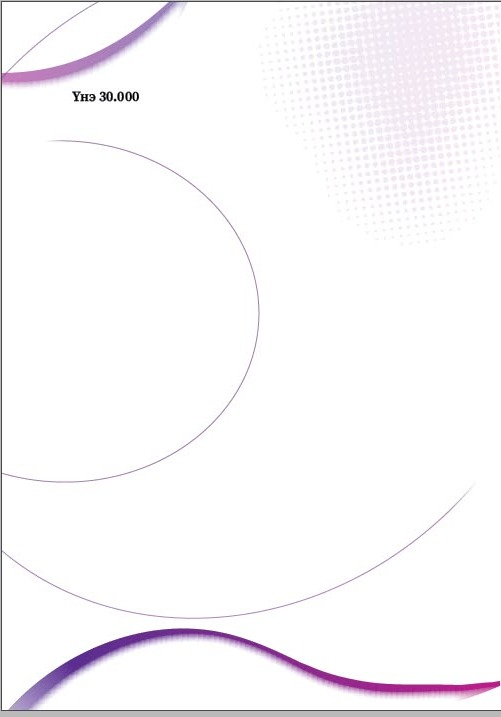
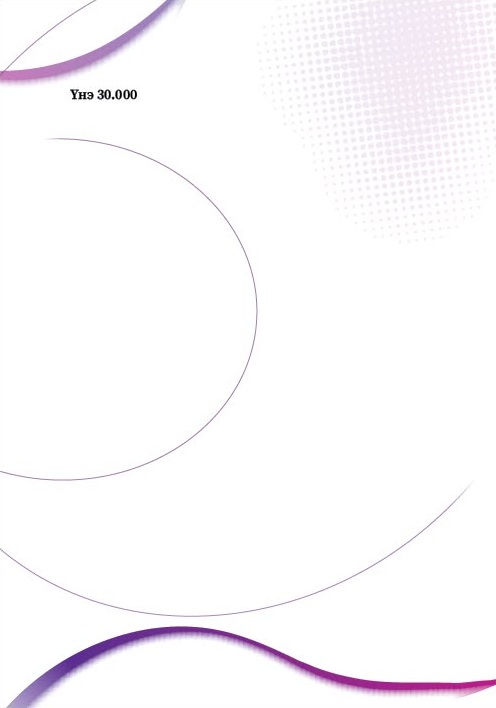
Номын 3D: зураас арилгаж, мэргэжлийн бүтээгдэхүүний гэрэлд шилжүүлэв
- Хавтасны тайралтаас дизайны канвасын саарал хүрээ, бараан шугамыг хасав
  (хажуугийн бараан ба доорх цагаан зураасны шалтгаан). Нуруу 56px тул
  пропорц 1 : 1.422 : 0.112.
- Ном нэг цул биет — хавтас/хуудасны завсрын зураас үүсэхгүй.
- Градиент тусгалтай нарийн strip softbox, хар хаалт (black flag) —
  хавтсыг бүрхэхгүй, нарийн гялбаа үүсгэнэ.
- Шалны хавтгайгүй завсаргүй фон; бараан горимд ~18% уусдаг акрил ойлт.

diff --git a/docs/v2/mockup/books-3d.html b/docs/v2/mockup/books-3d.html
@@ -11,36 +11,24 @@
   .wrap { max-width: 1080px; margin: 0 auto; padding: 20px 16px 120px; }
   .note { font-size: 13px; color: var(--ink-dim); border: 1px dashed var(--line); border-radius: 12px; padding: 10px 14px; background: #fff; }
   .spacer { height: 36vh; display: grid; place-items: end center; color: var(--ink-dim); font-size: 13px; padding-bottom: 12px; }
-  .studio { position: relative; border-radius: 22px; overflow: hidden; aspect-ratio: 4 / 5; touch-action: pan-y; user-select: none; -webkit-user-select: none; cursor: grab; transition: background .5s; }
+  .studio { position: relative; border-radius: 22px; overflow: hidden; aspect-ratio: 4 / 5; touch-action: pan-y; user-select: none; -webkit-user-select: none; cursor: grab; background: #151318; }
   @media (min-width: 860px) { .studio { aspect-ratio: 16 / 10; } }
   .studio:active { cursor: grabbing; }
-  /* Бараан студи: номын ард зөөлөн гэрлийн толбо, ирмэгээрээ харанхуйлна */
-  .studio.dark {
-    background:
-      radial-gradient(48% 38% at 50% 44%, rgba(120,92,140,.42) 0%, rgba(120,92,140,0) 70%),
-      radial-gradient(70% 24% at 50% 82%, rgba(255,255,255,.07) 0%, rgba(255,255,255,0) 70%),
-      radial-gradient(120% 90% at 50% 40%, #2A2630 0%, #151318 58%, #0B0A0D 100%);
-  }
-  .studio.light {
-    background:
-      radial-gradient(55% 42% at 50% 42%, #FFFFFF 0%, rgba(255,255,255,0) 72%),
-      radial-gradient(120% 90% at 50% 40%, #F1EEE9 0%, #E2DDD5 64%, #CFC9BF 100%);
-  }
   canvas { position: absolute; inset: 0; width: 100%; height: 100%; display: block; }
   .fallback { position: absolute; inset: 0; display: grid; place-items: center; }
-  .fallback img { width: 52%; max-width: 280px; box-shadow: 0 30px 50px -20px rgba(0,0,0,.5); }
+  .fallback img { width: 52%; max-width: 280px; }
   .ctrl { position: absolute; top: 12px; right: 12px; display: flex; gap: 4px; padding: 4px; border-radius: 999px; background: rgba(255,255,255,.14); backdrop-filter: blur(10px); -webkit-backdrop-filter: blur(10px); z-index: 2; }
-  .studio.light .ctrl { background: rgba(0,0,0,.06); }
+  .studio.light .ctrl { background: rgba(0,0,0,.07); }
   .ctrl button { font: inherit; font-size: 12px; border: 0; border-radius: 999px; padding: 6px 12px; min-height: 32px; background: transparent; color: rgba(255,255,255,.75); cursor: pointer; }
   .studio.light .ctrl button { color: #55504A; }
   .ctrl button[aria-pressed="true"] { background: rgba(255,255,255,.92); color: #1B1B18; }
+  .hint { position: absolute; left: 0; right: 0; bottom: 14px; text-align: center; font-size: 12px; color: rgba(255,255,255,.45); pointer-events: none; }
+  .studio.light .hint { color: #7A756C; }
   .lights { display: flex; justify-content: center; gap: 4px; margin: 12px auto 0; width: max-content; padding: 4px; border-radius: 999px; background: #EFECE6; }
   .lights button { font: inherit; font-size: 12px; border: 0; border-radius: 999px; padding: 6px 10px; min-height: 32px; background: transparent; color: #8A847B; cursor: pointer; display: flex; align-items: center; gap: 6px; }
   .lights button i { width: 7px; height: 7px; border-radius: 50%; background: currentColor; opacity: .5; }
   .lights button[aria-pressed="true"] { color: #1B1B18; background: #fff; box-shadow: 0 1px 2px rgba(0,0,0,.08); }
-  .lights button[aria-pressed="true"] i { background: #FFD27A; opacity: 1; box-shadow: 0 0 8px #FFD27A; }
-  .hint { position: absolute; left: 0; right: 0; bottom: 14px; text-align: center; font-size: 12px; color: rgba(255,255,255,.5); pointer-events: none; }
-  .studio.light .hint { color: #7A756C; }
+  .lights button[aria-pressed="true"] i { background: #F5B942; opacity: 1; box-shadow: 0 0 6px #F5B942; }
   .kicker { margin-top: 22px; font-size: 12px; letter-spacing: .1em; text-transform: uppercase; color: var(--book); font-weight: 700; }
   h1 { font-size: clamp(26px, 6.4vw, 34px); margin: 6px 0 0; letter-spacing: -.015em; line-height: 1.15; }
   .meta { color: var(--ink-dim); font-size: 14px; margin-top: 6px; }
@@ -65,7 +53,6 @@
     </div>
     <div class="hint">Гүйлгэхэд эргэнэ · хажуу тийш чирнэ</div>
   </div>
-
   <div class="lights" role="group" aria-label="Гэрэл асаах, унтраах">
     <button data-light="fill" aria-pressed="true"><i></i>Дүүргэгч</button>
     <button data-light="hair" aria-pressed="true"><i></i>Арын</button>
@@ -82,7 +69,7 @@
   import { RectAreaLightUniformsLib } from "three/addons/lights/RectAreaLightUniformsLib.js";
 
   const studio = document.getElementById("studio");
-  const renderer = new THREE.WebGLRenderer({ antialias: true, alpha: true, powerPreference: "high-performance" });
+  const renderer = new THREE.WebGLRenderer({ antialias: true, powerPreference: "high-performance" });
   document.getElementById("fallback").remove();
   renderer.setPixelRatio(Math.min(devicePixelRatio, 2));
   renderer.outputColorSpace = THREE.SRGBColorSpace;
@@ -95,97 +82,132 @@
   const scene = new THREE.Scene();
   const camera = new THREE.PerspectiveCamera(26, 1, 0.1, 60);
   const pmrem = new THREE.PMREMGenerator(renderer);
-  const target = new THREE.Vector3(0, 0.70, 0);
+  const AIM = new THREE.Vector3(0, 0.70, 0);
+  const canvasTex = (w, h, draw, srgb = true) => { const c = document.createElement("canvas"); c.width = w; c.height = h; draw(c.getContext("2d"), w, h); const t = new THREE.CanvasTexture(c); if (srgb) t.colorSpace = THREE.SRGBColorSpace; return t; };
 
-  // ---------- Студийн тусгалын орчин: харанхуй өрөөнд гэрэлтэх softbox-ууд ----------
-  // Гялгар хавтас эдгээр туузыг тусгаж, бүтээгдэхүүний зургийн урт гялбаа үүснэ.
+  // ===================== Студийн фон (WebGL дотор) =====================
+  const BACKDROP = {
+    dark:  { glow: "#3A3242", mid: "#17151B", edge: "#0A090C", floor: 0x141217 },
+    light: { glow: "#FFFFFF", mid: "#EAE6E0", edge: "#CDC7BD", floor: 0xE6E2DB },
+  };
+  const backdropTex = mode => canvasTex(1024, 1024, (x, w, h) => {
+    const b = BACKDROP[mode], g = x.createRadialGradient(w * .5, h * .42, 0, w * .5, h * .46, w * .78);
+    g.addColorStop(0, b.glow); g.addColorStop(.45, b.mid); g.addColorStop(1, b.edge);
+    x.fillStyle = g; x.fillRect(0, 0, w, h);
+  });
+
+  // ===================== Тусгалын орчин: градиент softbox + хар хаалт =====================
+  // Гялгар бүтээгдэхүүний зураг: жигд тууз биш, нэг ирмэг нь хар хаалтаар хурц,
+  // нөгөө тал нь бүдэгрэн уусдаг градиент тусгал.
+  const gradStrip = canvasTex(512, 8, (x, w, h) => {
+    const g = x.createLinearGradient(0, 0, w, 0);
+    g.addColorStop(0, "#000"); g.addColorStop(.06, "#fff"); g.addColorStop(.32, "#e8e8e8"); g.addColorStop(1, "#000");
+    x.fillStyle = g; x.fillRect(0, 0, w, h);
+  }, false);
+  const gradTop = canvasTex(8, 512, (x, w, h) => {
+    const g = x.createLinearGradient(0, 0, 0, h);
+    g.addColorStop(0, "#fff"); g.addColorStop(1, "#000");
+    x.fillStyle = g; x.fillRect(0, 0, w, h);
+  }, false);
+
   const on = { key: true, fill: true, hair: true };
   function studioEnv(mode) {
     const env = new THREE.Scene();
-    env.background = new THREE.Color(mode === "dark" ? 0x060508 : 0x6d6a66);
-    const box = (w, h, power, pos, tint = 0xffffff) => {
-      const m = new THREE.Mesh(new THREE.PlaneGeometry(w, h), new THREE.MeshBasicMaterial({ color: new THREE.Color(tint).multiplyScalar(power), side: THREE.DoubleSide, toneMapped: false }));
-      m.position.set(...pos); m.lookAt(0, 0.7, 0); env.add(m);
+    env.background = new THREE.Color(mode === "dark" ? 0x040305 : 0x5c5955);
+    const panel = (w, h, power, pos, map, tint = 0xffffff, flipX = false) => {
+      const mat = new THREE.MeshBasicMaterial({ color: new THREE.Color(tint).multiplyScalar(power), map, side: THREE.DoubleSide, toneMapped: false });
+      const m = new THREE.Mesh(new THREE.PlaneGeometry(w, h), mat);
+      m.position.set(...pos); m.lookAt(AIM); if (flipX) m.scale.x = -1; env.add(m);
     };
-    if (on.key)  box(1.3, 5.5, 9, [4.2, 2.2, 2.4], 0xfff3e6);    // түлхүүр: баруун урд 45°, урт тууз
-    if (on.fill) box(1.0, 3.6, 3, [-4.4, 1.6, 2.8], 0xeef2ff);   // дүүргэгч: зүүн урд 45°, сул
-    box(4.5, 3.0, 2.5, [0, 6.5, 0.6]);                            // дээд сул ойлт
-    if (on.hair) box(3.2, 0.9, 9, [-0.4, 3.6, -3.8]);             // арын (үсний) гэрэл: ард дээрээс
-    box(6.0, 1.2, mode === "dark" ? 0.4 : 2.2, [0, -0.6, 4.5]);   // доороос сул ойлт
-    return pmrem.fromScene(env, 0.02).texture;
+    const flag = (w, h, pos) => panel(w, h, 0, pos, null);   // хар хаалт: гэрэл огт өгөхгүй
+    if (on.key)  { panel(1.5, 5.6, 5, [4.0, 2.3, 2.6], gradStrip, 0xfff2e2); flag(0.6, 5.8, [3.0, 2.3, 3.4]); }
+    if (on.fill) panel(1.2, 3.8, 1.8, [-4.2, 1.6, 3.0], gradStrip, 0xeef2ff, true);
+    if (on.hair) panel(3.4, 1.0, 9, [-0.3, 3.8, -3.8], null);
+    panel(5.0, 3.4, mode === "dark" ? 0.9 : 1.6, [0, 6.6, 0.8], gradTop);   // дээд softbox, урдаас ар руу уусна
+    if (mode === "light") panel(7, 1.4, 1.6, [0, -0.6, 4.6], null);           // цайвар шалнаас ойх гэрэл
+    return pmrem.fromScene(env, 0.015).texture;
   }
 
-  // ---------- Гэрэл: тэгш өнцөгт softbox (RectAreaLight) + сүүдэрт зориулсан нэг чиглэлт гэрэл ----------
-  const rect = (color, power, w, h, pos) => { const l = new THREE.RectAreaLight(color, power, w, h); l.position.set(...pos); l.lookAt(target); scene.add(l); return l; };
-  // Сонгодог гурван цэгийн гэрэл (дээрээс харвал): түлхүүр баруун урд, дүүргэгч зүүн урд, арын гэрэл ар дээрээс
-  const POWER = { key: 9, fill: 2.6, hair: 8 };
+  // ===================== Гэрэл =====================
+  // Схем (дээрээс): түлхүүр баруун урд 45°, дүүргэгч зүүн урд 45°, арын гэрэл ар дээрээс.
+  const rect = (color, power, w, h, pos) => { const l = new THREE.RectAreaLight(color, power, w, h); l.position.set(...pos); l.lookAt(AIM); scene.add(l); return l; };
+  const POWER = { key: 6, fill: 1.8, hair: 7.5 };
   const LIGHTS = {
-    key:  rect(0xfff1e0, POWER.key,  1.4, 4.2, [3.4, 2.4, 2.4]),
-    fill: rect(0xeef2ff, POWER.fill, 1.2, 3.0, [-3.6, 1.5, 2.8]),
-    hair: rect(0xffffff, POWER.hair, 3.0, 0.9, [-0.4, 3.4, -3.0]),
+    key:  rect(0xfff1e0, POWER.key,  1.6, 4.4, [3.4, 2.4, 2.6]),
+    fill: rect(0xeef2ff, POWER.fill, 1.4, 3.2, [-3.6, 1.5, 3.0]),
+    hair: rect(0xffffff, POWER.hair, 3.2, 1.0, [-0.3, 3.4, -3.0]),
   };
-  rect(0xffffff, 1.6, 3.5, 2.5, [0, 5.4, 0.8]);   // дээд сул ойлт — хар сүүдэр үүсгэхгүйн тулд
-  const sun = new THREE.DirectionalLight(0xffffff, 0.35);      // зөвхөн зөөлөн сүүдэр гаргана
+  rect(0xffffff, 1.4, 4.0, 3.0, [0, 5.6, 0.8]);
+  const sun = new THREE.DirectionalLight(0xffffff, 0.3);       // зөвхөн зөөлөн сүүдэр
   sun.position.set(2.4, 6.2, 3.0); sun.castShadow = true;
   sun.shadow.mapSize.set(2048, 2048); sun.shadow.radius = 16; sun.shadow.blurSamples = 25; sun.shadow.bias = -0.0006;
   Object.assign(sun.shadow.camera, { left: -4, right: 4, top: 4, bottom: -4, near: 0.5, far: 16 });
   scene.add(sun);
 
-  const floor = new THREE.Mesh(new THREE.PlaneGeometry(14, 14), new THREE.ShadowMaterial({ opacity: 0.3 }));
-  floor.rotation.x = -Math.PI / 2; floor.receiveShadow = true; scene.add(floor);
-  // Ёроолын бараан сүүдэр (ambient occlusion-ийн оронд)
-  const cs = document.createElement("canvas"); cs.width = 512; cs.height = 256;
-  const cx = cs.getContext("2d"), g = cx.createRadialGradient(256, 128, 4, 256, 128, 250);
-  g.addColorStop(0, "rgba(0,0,0,.75)"); g.addColorStop(.35, "rgba(0,0,0,.35)"); g.addColorStop(1, "rgba(0,0,0,0)");
-  cx.fillStyle = g; cx.fillRect(0, 0, 512, 256);
-  const contact = new THREE.Mesh(new THREE.PlaneGeometry(1.6, 0.42), new THREE.MeshBasicMaterial({ map: new THREE.CanvasTexture(cs), transparent: true, depthWrite: false }));
-  contact.rotation.x = -Math.PI / 2; contact.position.y = 0.002; scene.add(contact);
+  // ===================== Шал =====================
+  // Тусдаа шалны хавтгай байхгүй: фон завсаргүй үргэлжилнэ, тэнгэрийн хаяаны зураас гарахгүй.
+  // Цайвар: зөвхөн сүүдэр. Бараан: акрил мэт бүдэг ойлт (номын толин тусгал, доошоо уусна).
+  const shadowFloor = new THREE.Mesh(new THREE.PlaneGeometry(14, 14), new THREE.ShadowMaterial({ opacity: 0.22 }));
+  shadowFloor.rotation.x = -Math.PI / 2; shadowFloor.receiveShadow = true; scene.add(shadowFloor);
+  const contactTex = canvasTex(512, 256, (x, w, h) => {
+    const g = x.createRadialGradient(w / 2, h / 2, 4, w / 2, h / 2, w * .49);
+    g.addColorStop(0, "rgba(0,0,0,.8)"); g.addColorStop(.3, "rgba(0,0,0,.35)"); g.addColorStop(1, "rgba(0,0,0,0)");
+    x.fillStyle = g; x.fillRect(0, 0, w, h);
+  });
+  const contact = new THREE.Mesh(new THREE.PlaneGeometry(1.5, 0.36), new THREE.MeshBasicMaterial({ map: contactTex, transparent: true, depthWrite: false }));
+  contact.rotation.x = -Math.PI / 2; contact.position.y = 0.003; scene.add(contact);
 
-  // ---------- Ном: зөөлөн хавтастай, хавтас хуудастай тэгш ----------
-  const W = 1, H = 1.431, T = 0.104, C = 0.006;
+  // ===================== Ном: нэг цул биет — завсар, зураас үүсэхгүй =====================
+  const W = 1, H = 1.422, T = 0.112;          // хавтасны эх файлаас: 498 × 708, нуруу 56 px
   const loader = new THREE.TextureLoader();
-  const tex = src => { const t = loader.load(src, () => request()); t.colorSpace = THREE.SRGBColorSpace; t.anisotropy = renderer.capabilities.getMaxAnisotropy(); return t; };
-  const laminate = map => new THREE.MeshPhysicalMaterial({ map, roughness: 0.38, clearcoat: 1, clearcoatRoughness: 0.08, envMapIntensity: 1 });
-  const cut = new THREE.MeshStandardMaterial({ color: 0xF6F3EE, roughness: 0.7 });   // хавтасны зүсмэл ирмэг
-  function paperTex(vertical) {
-    const n = 1024, c = document.createElement("canvas"); c.width = vertical ? n : 4; c.height = vertical ? 4 : n;
-    const x = c.getContext("2d"); x.fillStyle = "#F6EEDC"; x.fillRect(0, 0, c.width, c.height);          // офсет цаас: бага зэрэг шаргал
-    for (let i = 0; i < n; i += 2) { x.fillStyle = `rgba(150,124,82,${0.07 + Math.random() * 0.11})`; vertical ? x.fillRect(i, 0, 1, 4) : x.fillRect(0, i, 4, 1); }
-    const t = new THREE.CanvasTexture(c); t.colorSpace = THREE.SRGBColorSpace; t.anisotropy = 8; return t;
-  }
-  const paperFore = new THREE.MeshStandardMaterial({ map: paperTex(true), roughness: 0.92 });
-  const paperTop = new THREE.MeshStandardMaterial({ map: paperTex(false), roughness: 0.92 });
+  const coverTex = src => { const t = loader.load(src, () => request()); t.colorSpace = THREE.SRGBColorSpace; t.anisotropy = renderer.capabilities.getMaxAnisotropy(); return t; };
+  const laminate = map => new THREE.MeshPhysicalMaterial({ map, roughness: 0.34, clearcoat: 1, clearcoatRoughness: 0.06 });
+  // Хуудасны ирмэг: шаргалдуу офсет цаас, хоёр захад хавтасны нимгэн цагаан ирмэг
+  const paperEdge = across => canvasTex(across ? 1024 : 8, across ? 8 : 1024, (x, w, h) => {
+    const n = Math.max(w, h); x.fillStyle = "#F6EEDC"; x.fillRect(0, 0, w, h);
+    for (let i = 0; i < n; i += 2) { x.fillStyle = `rgba(150,124,82,${0.05 + Math.random() * 0.09})`; across ? x.fillRect(i, 0, 1, h) : x.fillRect(0, i, w, 1); }
+    x.fillStyle = "#FAF8F4"; const e = Math.round(n * 0.03);
+    across ? (x.fillRect(0, 0, e, h), x.fillRect(w - e, 0, e, h)) : (x.fillRect(0, 0, w, e), x.fillRect(0, h - e, w, e));
+  });
+  const pageSide = new THREE.MeshStandardMaterial({ map: paperEdge(true), roughness: 0.9 });
+  const pageTop = new THREE.MeshStandardMaterial({ map: paperEdge(false), roughness: 0.9 });
+  // BoxGeometry материалын дараалал: +x ирмэг, −x нуруу, +y дээд, −y доод, +z урд, −z ар
+  const book = new THREE.Mesh(new THREE.BoxGeometry(W, H, T), [
+    pageSide, laminate(coverTex("img/100x100-spine.jpg")), pageTop, pageTop,
+    laminate(coverTex("img/100x100-front.jpg")), laminate(coverTex("img/100x100-back.jpg")),
+  ]);
+  book.castShadow = true; book.position.y = H / 2; scene.add(book);
+  // Акрил ойлт: номын толин хуулбар, шалнаас холдох тусам уусна (~18%)
+  const fadeReflection = m => {
+    const c = m.clone(); c.transparent = true; c.depthWrite = false;
+    c.onBeforeCompile = sh => {
+      sh.vertexShader = "varying float vY;\n" + sh.vertexShader.replace("#include <project_vertex>", "#include <project_vertex>\n  vY = (modelMatrix * vec4(transformed, 1.0)).y;");
+      sh.fragmentShader = "varying float vY;\n" + sh.fragmentShader.replace("#include <dithering_fragment>", "#include <dithering_fragment>\n  gl_FragColor.a *= 0.18 * smoothstep(-0.55, 0.0, vY);");
+    };
+    return c;
+  };
+  const reflection = new THREE.Mesh(book.geometry, book.material.map(fadeReflection));
+  reflection.scale.y = -1; reflection.position.y = -H / 2; scene.add(reflection);
 
-  const book = new THREE.Group();
-  const part = (geo, mats, pos) => { const m = new THREE.Mesh(geo, mats); m.position.set(...pos); m.castShadow = m.receiveShadow = true; book.add(m); };
-  // BoxGeometry материалын дараалал: +x, -x, +y, -y, +z, -z
-  part(new THREE.BoxGeometry(W, H, C), [cut, cut, cut, cut, laminate(tex("img/100x100-front.jpg")), cut], [0, 0, T / 2 - C / 2]);
-  part(new THREE.BoxGeometry(W, H, C), [cut, cut, cut, cut, cut, laminate(tex("img/100x100-back.jpg"))], [0, 0, -T / 2 + C / 2]);
-  part(new THREE.BoxGeometry(C, H, T), [cut, laminate(tex("img/100x100-spine.jpg")), cut, cut, cut, cut], [-W / 2 + C / 2, 0, 0]);
-  // Хуудас: дээр, доор, баруун ирмэг нь хавтастай яг нэг түвшинд
-  part(new THREE.BoxGeometry(W - C, H, T - 2 * C), [paperFore, cut, paperTop, paperTop, cut, cut], [C / 2, 0, 0]);
-  book.position.y = H / 2;
-  scene.add(book);
-
-  // ---------- Горим ----------
-  function setMode(mode) {
-    studio.className = "studio " + mode;
-    if (scene.environment) scene.environment.dispose();
-    scene.environment = studioEnv(mode);
-    renderer.toneMappingExposure = mode === "dark" ? 1.0 : 0.92;
-    floor.material.opacity = mode === "dark" ? 0.55 : 0.26;
-    contact.material.opacity = mode === "dark" ? 1 : 0.7;
-    document.querySelectorAll(".ctrl button").forEach(b => b.setAttribute("aria-pressed", String(b.dataset.mode === mode)));
+  // ===================== Горим =====================
+  let mode = "dark";
+  function setMode(m) {
+    mode = m; studio.className = "studio " + m;
+    scene.background?.dispose?.(); scene.background = backdropTex(m);
+    scene.environment?.dispose?.(); scene.environment = studioEnv(m);
+    const dark = m === "dark";
+    reflection.visible = dark; shadowFloor.material.opacity = dark ? 0.0 : 0.22;
+    contact.material.opacity = dark ? 0.9 : 0.75;
+    renderer.toneMappingExposure = dark ? 0.95 : 0.88;
+    document.querySelectorAll(".ctrl button").forEach(b => b.setAttribute("aria-pressed", String(b.dataset.mode === m)));
     request();
   }
-  let mode = "dark";
-  document.querySelectorAll(".ctrl button").forEach(b => b.addEventListener("click", e => { e.stopPropagation(); mode = b.dataset.mode; setMode(mode); }));
-  document.querySelectorAll(".lights button").forEach(b => b.addEventListener("click", e => {
-    e.stopPropagation();
+  document.querySelectorAll(".ctrl button").forEach(b => b.addEventListener("click", e => { e.stopPropagation(); setMode(b.dataset.mode); }));
+  document.querySelectorAll(".lights button").forEach(b => b.addEventListener("click", () => {
     const k = b.dataset.light; on[k] = !on[k];
     LIGHTS[k].intensity = on[k] ? POWER[k] : 0;
+    if (k === "key") sun.intensity = on.key ? 0.3 : 0.04;
     b.setAttribute("aria-pressed", String(on[k]));
-    if (k === "key") sun.intensity = on.key ? 0.35 : 0.05;
     setMode(mode);
   }));
 
@@ -193,12 +215,12 @@
     const { clientWidth: w, clientHeight: h } = studio;
     renderer.setSize(w, h, false); camera.aspect = w / h;
     const portrait = w / h < 1;
-    camera.position.set(0, portrait ? 1.02 : 0.95, portrait ? 4.9 : 4.3);
-    camera.lookAt(target); camera.updateProjectionMatrix(); request();
+    camera.position.set(0, portrait ? 1.0 : 0.92, portrait ? 4.9 : 4.3);
+    camera.lookAt(AIM); camera.updateProjectionMatrix(); request();
   }
   new ResizeObserver(resize).observe(studio);
 
-  // ---------- Эргэлт ----------
+  // ===================== Эргэлт =====================
   let dragAngle = 0, shown = 0;
   const progress = () => { const r = studio.getBoundingClientRect(), vh = innerHeight; return Math.min(1, Math.max(0, (vh - r.top) / (vh + r.height))); };
   const goal = () => -0.35 + progress() * 1.6 + dragAngle;
@@ -208,7 +230,7 @@
   studio.addEventListener("pointermove", e => {
     if (!drag) return;
     const dx = e.clientX - drag.x, dy = e.clientY - drag.y;
-    if (!drag.axis && Math.hypot(dx, dy) > 6) { drag.axis = Math.abs(dx) > Math.abs(dy) ? "x" : "y"; if (drag.axis === "x") studio.setPointerCapture(drag.id); }
+    if (!drag.axis && Math.hypot(dx, dy) > 6) { drag.axis = Math.abs(dx) > Math.abs(dy) ? "x" : "y"; if (drag.axis === "x") try { studio.setPointerCapture(drag.id); } catch {} }
     if (drag.axis === "x") { dragAngle = drag.a + dx * 0.008; request(); }
   });
   studio.addEventListener("pointerup", () => drag = null); studio.addEventListener("pointercancel", () => drag = null);
@@ -219,7 +241,7 @@
     raf = 0;
     const g = goal(), k = matchMedia("(prefers-reduced-motion: reduce)").matches ? 1 : 0.14;
     shown += (g - shown) * k;
-    book.rotation.y = shown; contact.rotation.z = -shown;
+    book.rotation.y = reflection.rotation.y = shown; contact.rotation.z = -shown;
     renderer.render(scene, camera);
     if (Math.abs(g - shown) > 0.0005) request();
   }
